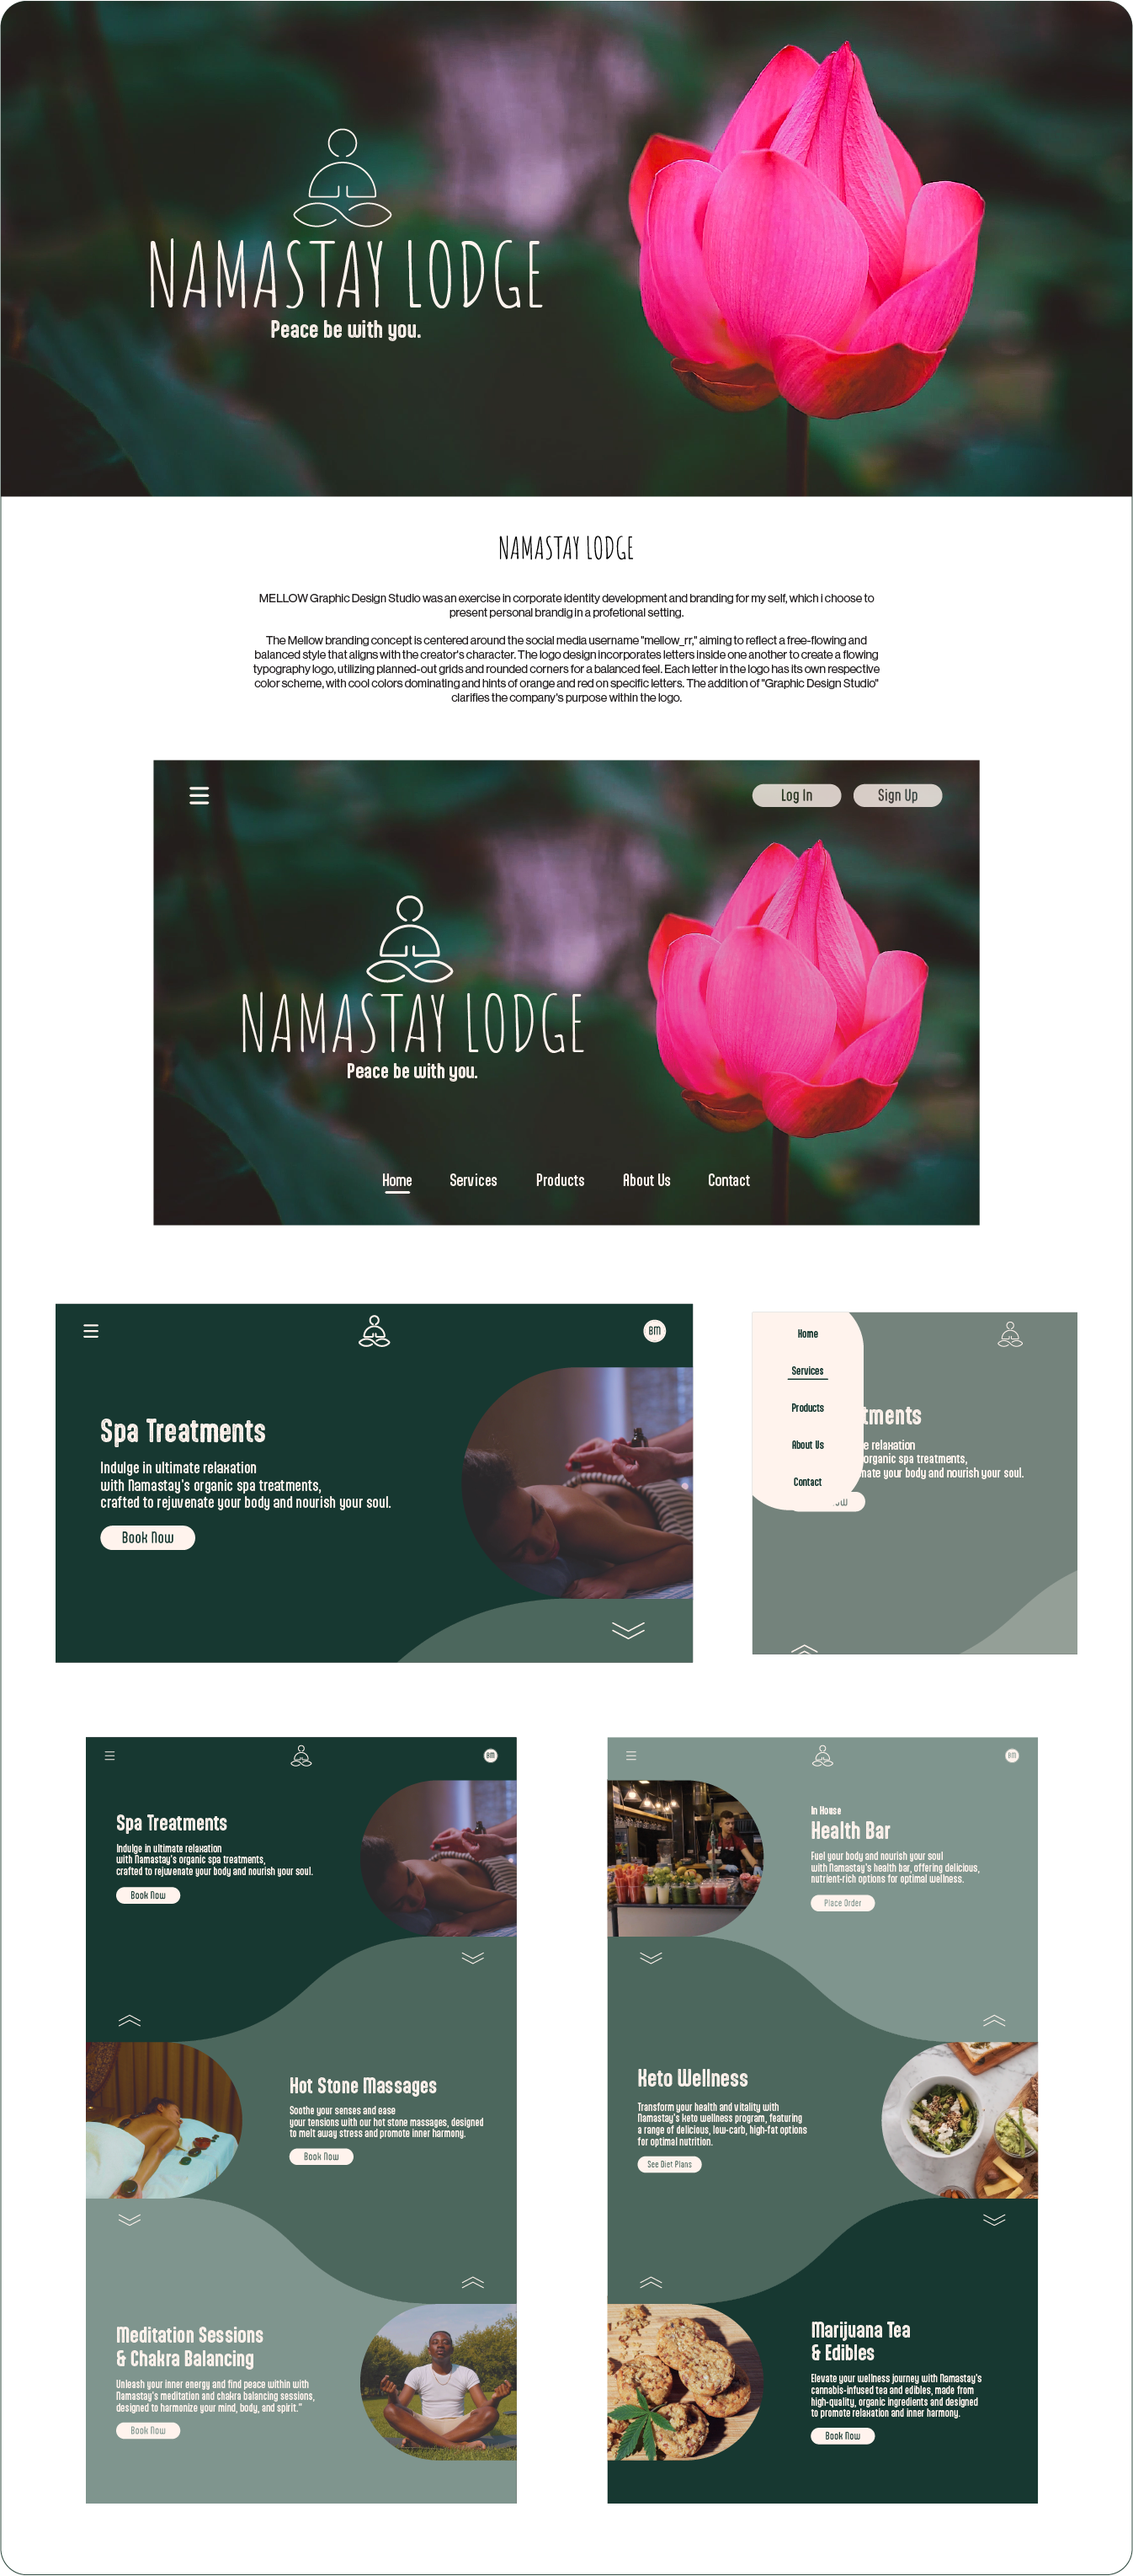
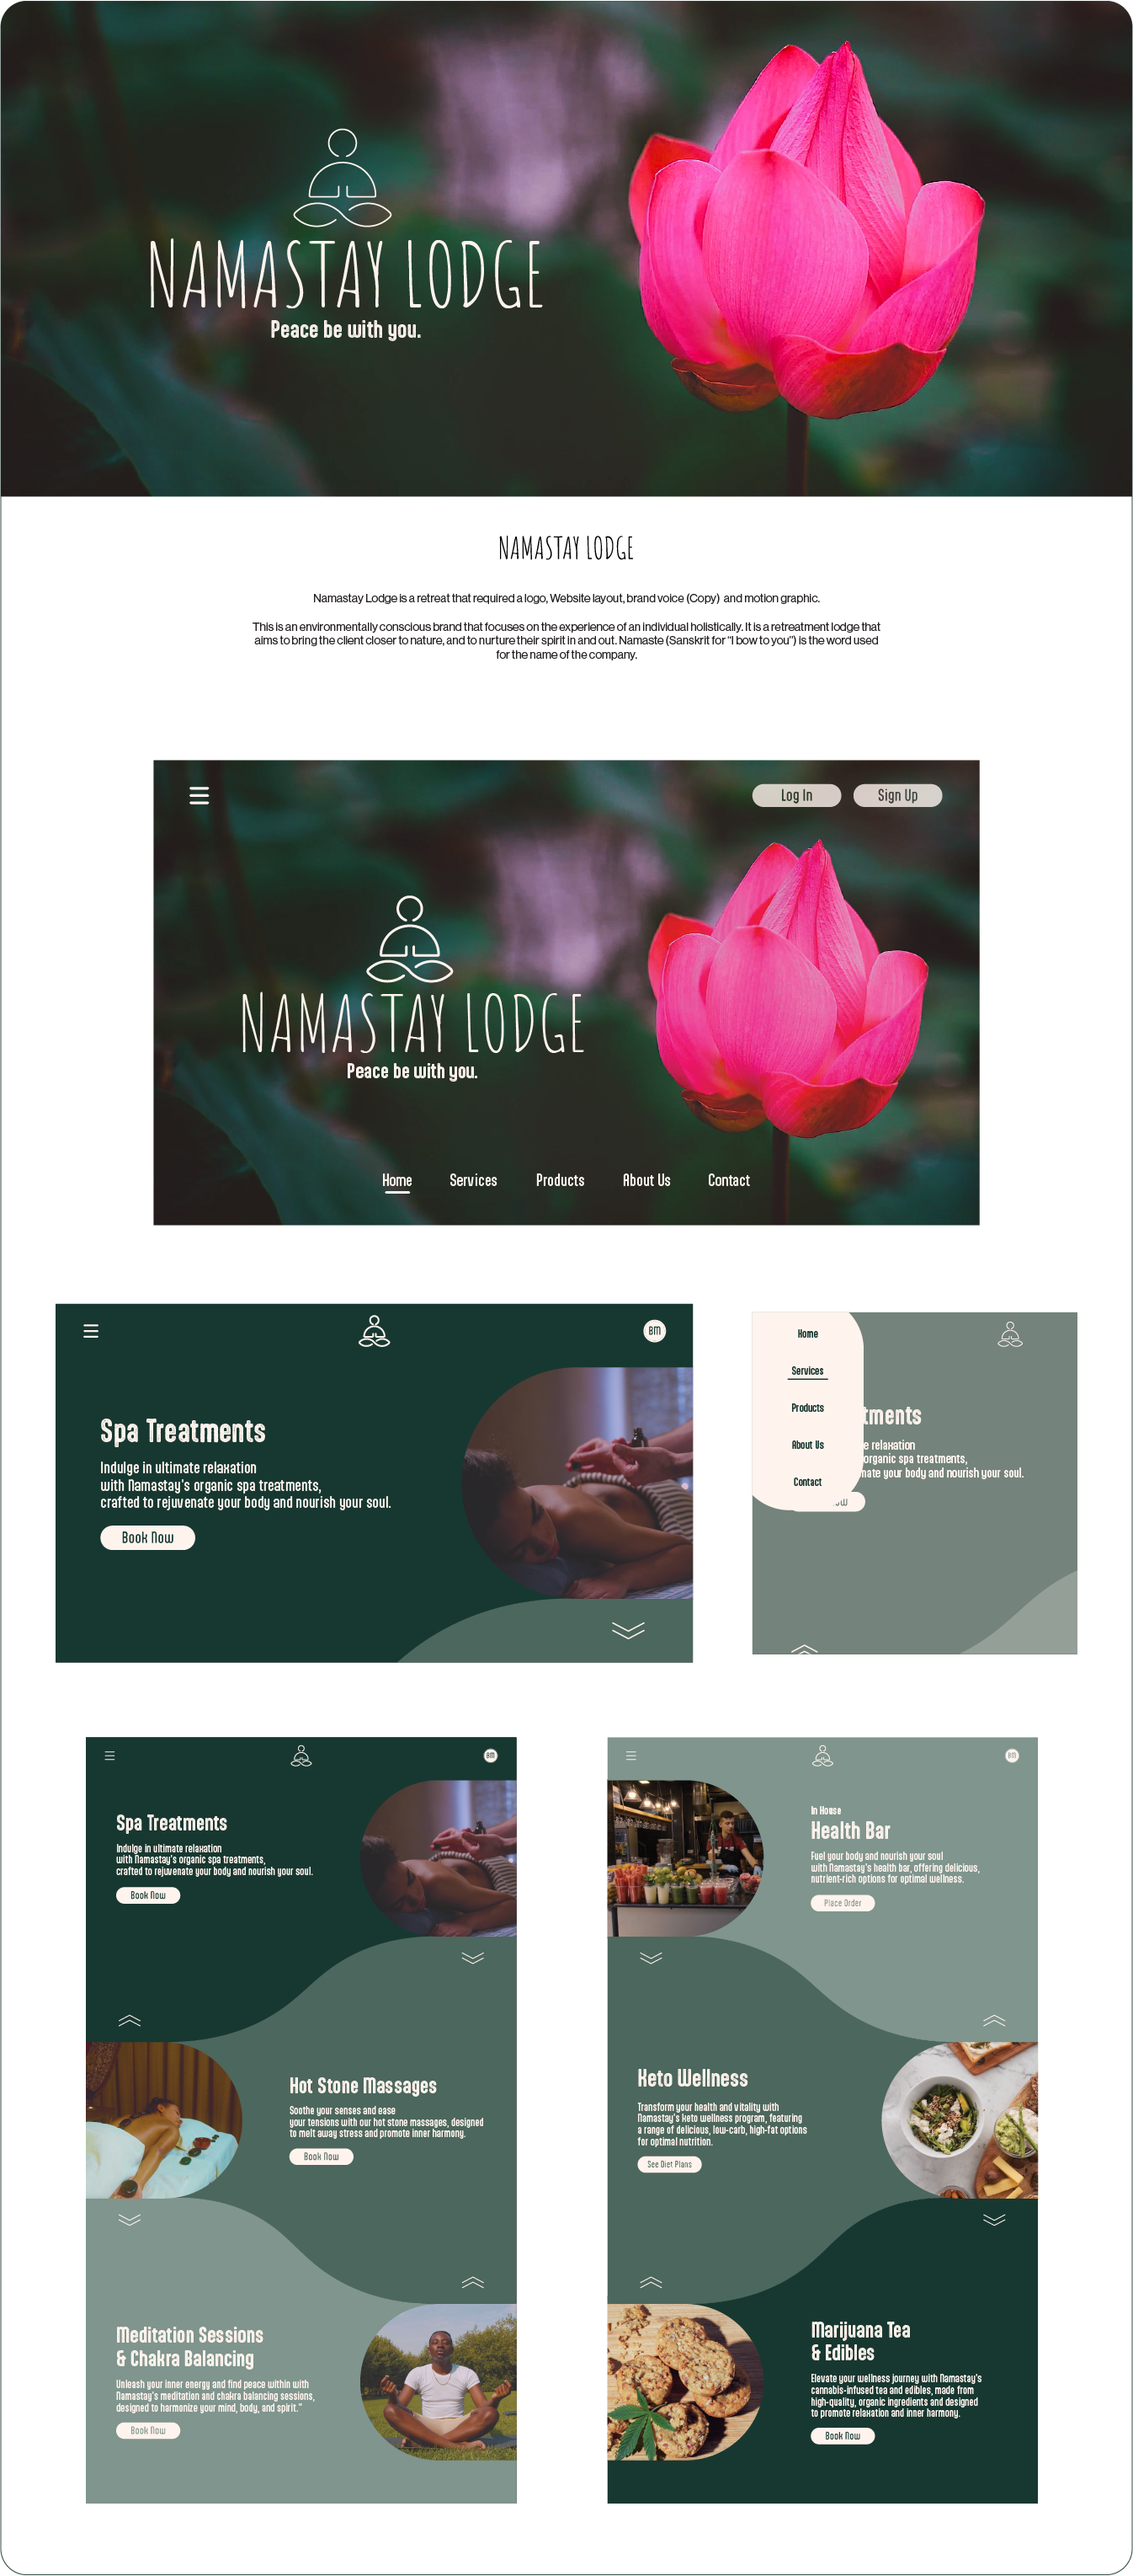
mod content

Changed region(s): [[0.2184, 0.2175, 0.7801, 0.2796]]

diff --git a/portfolio.html b/portfolio.html
@@ -21,7 +21,7 @@
         </a>
       </div>
       <div class="contacts">
-        <p><a href="portfolio.html">Portfolio</a></p>
+        <p>Portfolio</p>
         <p>
           <a
             href="https://boitumelomaphalala.blogspot.com"
@@ -108,9 +108,9 @@
         <span>
           <h2>Namastay</h2>
           <p>
-            Namastay is a digital agency that offers creative and creative
-            solutions. Namastay is a digital agency that offers creative and
-            creative solutions. Namastay is...
+            Namastay Lodge is a retreat that required a logo, Website layout,
+            brand voice (Copy) and motion graphic.This is an environmentally
+            conscious brand that focuses on...
           </p>
           <button data-image="images/content/subpages/namastay.png">
             View More
@@ -121,9 +121,9 @@
         <span>
           <h2>Grit</h2>
           <p>
-            Grit is a creative agency that offers creative and creative
-            solutions. Grit is a creative agency that offers creative and
-            creative solutions. Grit is...
+            Grit Magazine is about and inspired by the history and legacy of 90s
+            Grunge music and Icons such as Kurt Cobain, Mia Zapata and Katie
+            Jane Graside. Honoring ...
           </p>
           <button data-image="images/content/subpages/grit.png">
             View More
@@ -134,9 +134,9 @@
         <span>
           <h2>Shutter Speed</h2>
           <p>
-            Shutter Speed is a creative agency that offers creative and creative
-            solutions. Shutter Speed is a creative agency that offers creative
-            and creative solutions. Shutter Speed is...
+            Shutter speed, was a conceputal magazine layout the camera effects
+            of fast and slow shutter. The magazine was treated as 3 individual,
+            4 page concepts each with...
           </p>
           <button data-image="images/content/subpages/shutter_speed.png">
             View More
@@ -147,9 +147,9 @@
         <span>
           <h2>Aetheros</h2>
           <p>
-            Aetheros is a creative agency that offers creative and creative
-            solutions. Aetheros is a creative agency that offers creative and
-            creative solutions. Aetheros is...
+            Aetheros is a feminine fragrance designed for those seeking a
+            lasting, light, and pleasant scent. It appeals to introverted and
+            modest individuals who desire a...
           </p>
           <button data-image="images/content/subpages/aetheros.png">
             View More
@@ -160,9 +160,9 @@
         <span>
           <h2>Tag Markers</h2>
           <p>
-            Tag Markers is a creative agency that offers creative and creative
-            solutions. Tag Markers is a creative agency that offers creative and
-            creative solutions. Tag Markers is...
+            Tag Markers was an exercise in illustration and packaging design of
+            a pack of arts and craft markers that can be used by teenagers more
+            spesifically it was targeted at...
           </p>
           <button data-image="images/content/subpages/tag_markers.png">
             View More
@@ -173,11 +173,11 @@
         <span>
           <h2>Rebel Radiance</h2>
           <p>
-            Rebel Radiance is a creative agency that offers creative and
-            creative solutions. Rebel Radiance is a creative agency that offers
-            creative and creative solutions. Rebel Radiance is...
+            Rebel Radiance is a unisex cosmetic brand specializing in teenage
+            skin products. Targeting teens who are always on the go and value
+            looking and feeling good, the product...
           </p>
-          <button data-image="images/content/subpages/rebel_radiance.png">
+          <button data-image="images/content/subpages/rabel_radiance.png">
             View More
           </button>
         </span>

diff --git a/main.css b/main.css
@@ -198,7 +198,7 @@ main#home section section.archive {
   }
 
   & div.mid {
-    background-image: url(images/content/main_logos/aetheros.png);
+    background-image: url(images/content/main_logos/aetheros_thumb.png);
   }
 
   & div.bot {
@@ -393,6 +393,17 @@ main#portfoliopage div#namastay {
   }
 }
 
+main#portfoliopage div#rebel_radiance {
+  & span h2 {
+    background-color: #000000be;
+    width: fit-content;
+  }
+
+  & p {
+    background-color: #000000be;
+  }
+}
+
 div {
   &#limedog {
     background-image: url(images/content/main_logos/limedog_cover.png);
@@ -414,7 +425,7 @@ div {
     background-image: url(images/content/main_logos/tag_markers_cover.png);
   }
   &#aetheros {
-    background-image: url(images/content/main_logos/aetheros.png);
+    background-image: url(images/content/main_logos/aetheros_cover.png);
   }
 
   &#namastay {
@@ -422,7 +433,7 @@ div {
   }
 
   &#rebel_radiance {
-    background-image: url(images/content/main_logos/rebel_radiance.png);
+    background-image: url(images/content/main_logos/rabel_radiance_cover.png);
   }
 
   &#grit {
@@ -567,7 +578,7 @@ div {
     }
 
     &#rebel_radiance {
-      background-image: url(images/content/main_logos/rebel_radiance.png);
+      background-image: url(images/content/main_logos/rabel_radiance_thumb.png);
     }
 
     &#grit {

diff --git a/main.js b/main.js
@@ -13,7 +13,7 @@ const imageData = [
   { src: "images/content/subpages/shutter_speed.png", alt: "Shutter Speed" },
   { src: "images/content/subpages/aetheros.png", alt: "Aetheros" },
   { src: "images/content/subpages/tag_markers.png", alt: "Tag Markers" },
-  { src: "images/content/subpages/rebel_radiance.png", alt: "Rebel Radiance" },
+  { src: "images/content/subpages/rabel_radiance.png", alt: "Rebel Radiance" },
 ];
 const imageViewer = document.querySelector(".image-viewer");
 
